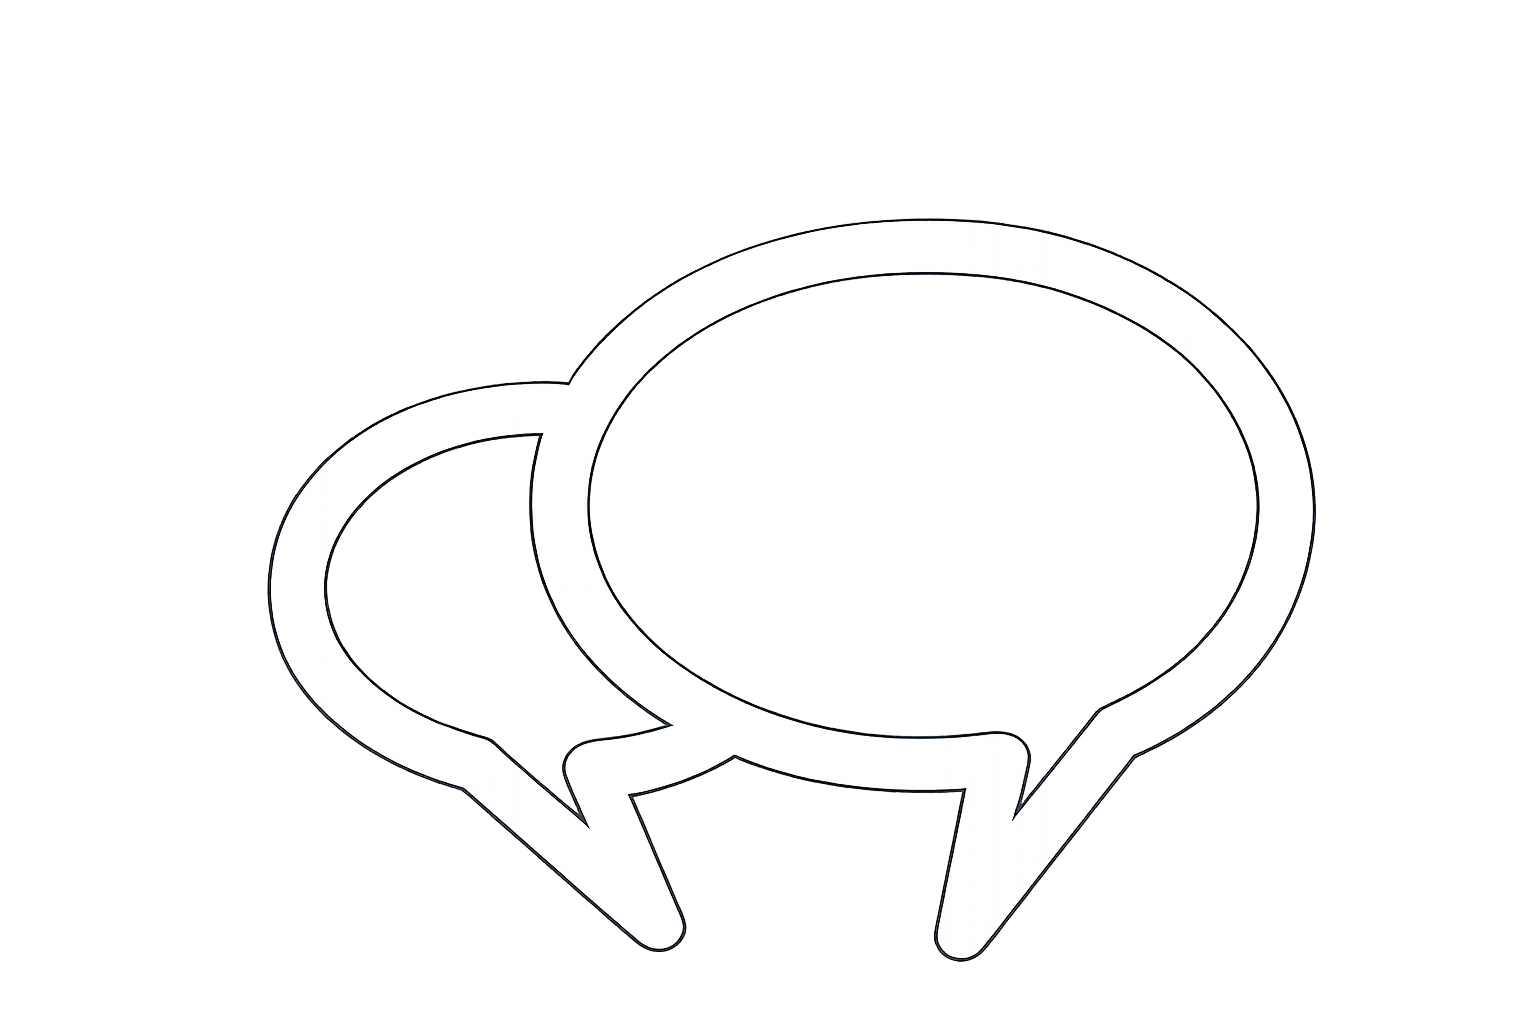
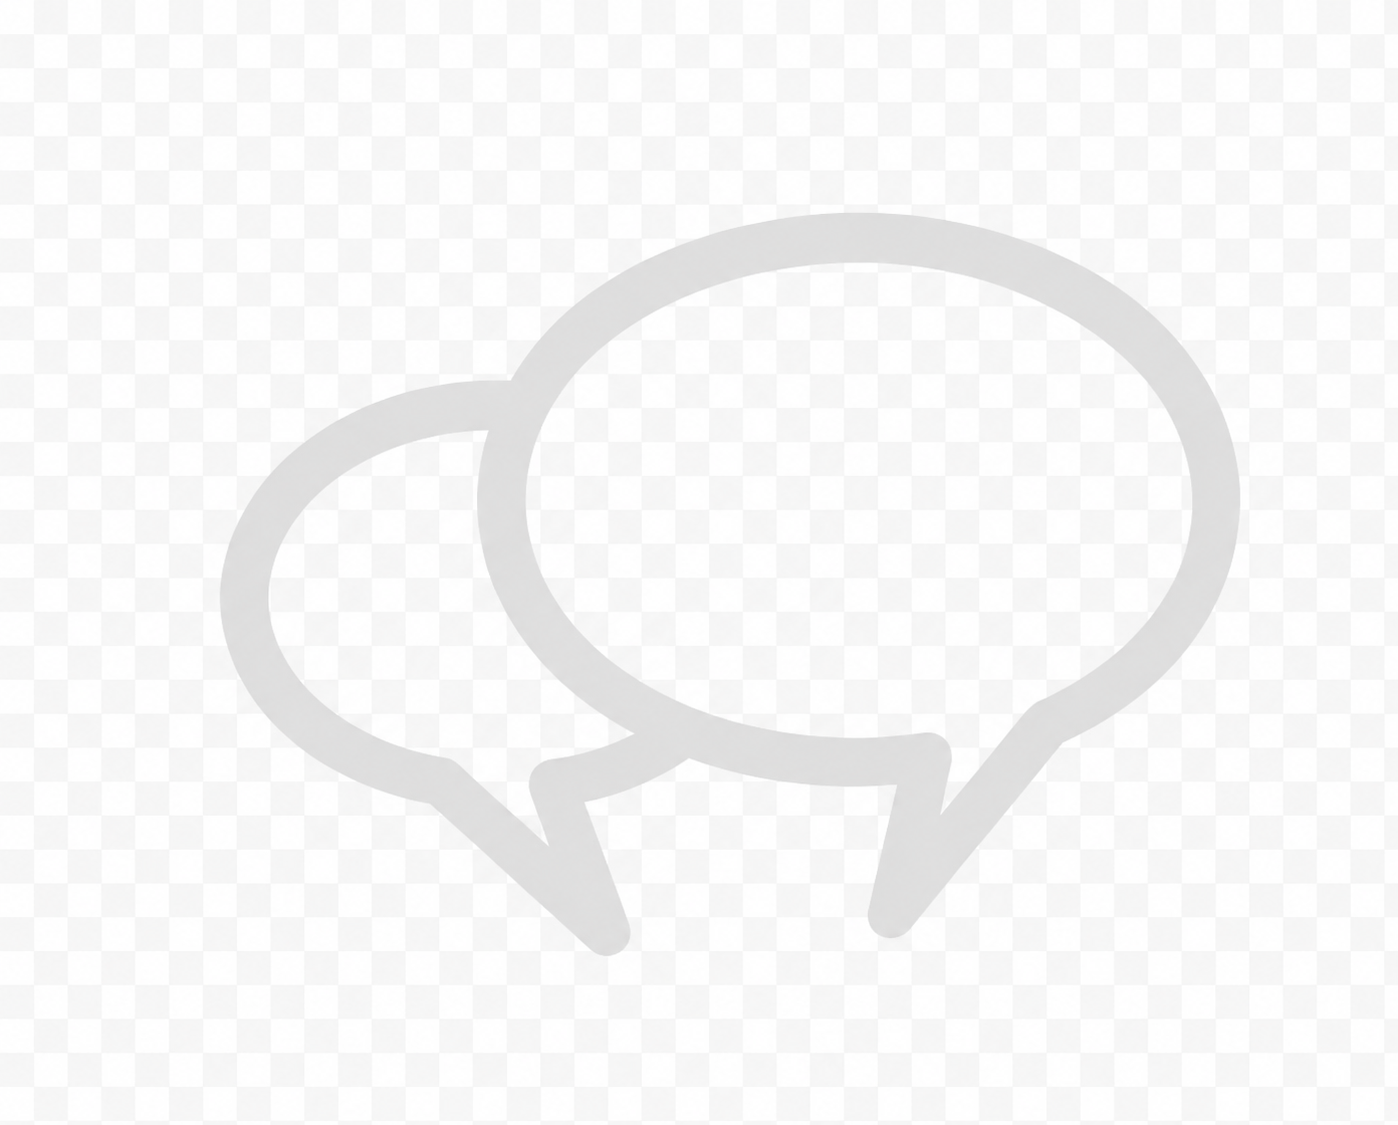
feat: update HeaderSection layout, improve MoodCheckInCard description, and modify HomeScreen introduction

diff --git a/public/sw.js b/public/sw.js
@@ -1,1 +1,100 @@
-if(!self.define){let e,a={};const i=(i,s)=>(i=new URL(i+".js",s).href,a[i]||new Promise(a=>{if("document"in self){const e=document.createElement("script");e.src=i,e.onload=a,document.head.appendChild(e)}else e=i,importScripts(i),a()}).then(()=>{let e=a[i];if(!e)throw new Error(`Module ${i} didn’t register its module`);return e}));self.define=(s,o)=>{const r=e||("document"in self?document.currentScript.src:"")||location.href;if(a[r])return;let c={};const t=e=>i(e,r),n={module:{uri:r},exports:c,require:t};a[r]=Promise.all(s.map(e=>n[e]||t(e))).then(e=>(o(...e),c))}}define(["./workbox-0710f85d"],function(e){"use strict";importScripts("worker-CYCxR1mOuer4GJf7MIJsa.js"),self.skipWaiting(),e.clientsClaim(),e.precacheAndRoute([{url:"/Logo Source files 21-4/Font/AdobeFnt22.lst",revision:"f0a9a0a2ea14876da89ce930f561c557"},{url:"/Logo Source files 21-4/Font/segoeui.ttf",revision:"d9076ed73f2501090da92fe3c72d3ce6"},{url:"/Logo Source files 21-4/Font/segoeuib.ttf",revision:"299556cecd6b730bce8230f529e837a1"},{url:"/Logo Source files 21-4/Font/segoeuii.ttf",revision:"ac2711bc5bf8d5883fc4091ac738a19a"},{url:"/Logo Source files 21-4/Font/segoeuil.ttf",revision:"d44929d62a49114d494d1768893fcdf7"},{url:"/Logo Source files 21-4/Font/segoeuisl.ttf",revision:"426088e434f43481b24859270171b906"},{url:"/Logo Source files 21-4/Font/segoeuiz.ttf",revision:"cb53f8068af6572a9ad4cc3c9a226704"},{url:"/Logo Source files 21-4/Font/seguibl.ttf",revision:"868d9468768f1660600f840e3b864815"},{url:"/Logo Source files 21-4/Font/seguibli.ttf",revision:"38b35433147fc7e2b286919b5cb8854e"},{url:"/Logo Source files 21-4/Font/seguili.ttf",revision:"5989bb884027d397cf27a15c18c26b95"},{url:"/Logo Source files 21-4/Font/seguisb.ttf",revision:"bc74928e0b7d13379ccf0b39354e87ad"},{url:"/Logo Source files 21-4/Font/seguisbi.ttf",revision:"3f0b609427347ed7f9d60c8c2f0b2e14"},{url:"/Logo Source files 21-4/Font/seguisli.ttf",revision:"3b10d164be87745d556fddfb792096cd"},{url:"/Logo Source files 21-4/Icon/0.25x/Artboard-1.jpg",revision:"acd2f9a4e590029bcc2b14525d190b1b"},{url:"/Logo Source files 21-4/Icon/0.25x/Artboard-1.png",revision:"125c571dca6747228a110a28f7a92eb7"},{url:"/Logo Source files 21-4/Icon/0.5x/Artboard-1.jpg",revision:"906a511ccec3d4e40ec1843180a19cf8"},{url:"/Logo Source files 21-4/Icon/0.5x/Artboard1.png",revision:"cd5b1b362d56faa2e765ba724dbf250d"},{url:"/Logo Source files 21-4/Icon/1x/[phone redacted].jpg",revision:"6b0da55e05501a06e7ee3d527e8cb718"},{url:"/Logo Source files 21-4/Icon/1x/Artboard 1-100.jpg",revision:"078a97d5152b5fd19f94fe49468ccedb"},{url:"/Logo Source files 21-4/Icon/1x/Artboard 1.png",revision:"ae27d35c9a984d4b47920e9b98237489"},{url:"/Logo Source files 21-4/Icon/1x/SAI116.jpg",revision:"71c82c9d0eea1b27597a5bd08ae265b2"},{url:"/Logo Source files 21-4/Icon/2x/Artboard [email redacted]",revision:"2b4030aefeceab4f7a455d5b19f5aca2"},{url:"/Logo Source files 21-4/Icon/2x/Artboard [email redacted]",revision:"29391640c67640cfaa227e386fce8da7"},{url:"/Logo Source files 21-4/Icon/4x/Artboard [email redacted]",revision:"ccd36be4868c17f5991342d52f6b5a20"},{url:"/Logo Source files 21-4/Icon/4x/Artboard [email redacted]",revision:"1a12ea754f22bd2ec5b96027a0d856e8"},{url:"/Logo Source files 21-4/Icon/PDF/Artboard 1.pdf",revision:"4c3bdfdae489c1ae967c696d6878318a"},{url:"/Logo Source files 21-4/Icon/SVG/Artboard1.svg",revision:"47bd213baccc6bbe7e6c641a06f987fb"},{url:"/Logo Source files 21-4/Logo.ai",revision:"b8c7a00791806ed5c2c210ac9b9c14d4"},{url:"/Logo Source files 21-4/Logo.psd",revision:"00c651961e1d476e7493416e9ef0e04b"},{url:"/Logo Source files 21-4/Logo/0.25x/Artboard-1.png",revision:"125c571dca6747228a110a28f7a92eb7"},{url:"/Logo Source files 21-4/Logo/0.25x/Artboard-2-100.jpg",revision:"33d9a1a340bfd3565c01b0071068e9ae"},{url:"/Logo Source files 21-4/Logo/0.25x/Artboard-2.png",revision:"fcfa8528f6153c1ed359f8a6479f1b18"},{url:"/Logo Source files 21-4/Logo/0.25x/Artboard-3.png",revision:"596fdf218f5adbf59bbb1c39f790b847"},{url:"/Logo Source files 21-4/Logo/0.25x/Artboard-3_transparent.png",revision:"e5313c700c4301763bd1a1a325256db7"},{url:"/Logo Source files 21-4/Logo/0.5x/Artboard 1.png",revision:"cd5b1b362d56faa2e765ba724dbf250d"},{url:"/Logo Source files 21-4/Logo/0.5x/Artboard 2.png",revision:"8137db56de12104fce8472c0f1d17d53"},{url:"/Logo Source files 21-4/Logo/0.5x/Artboard 3.png",revision:"893b96de5654ae2f93f84f0bd558180c"},{url:"/Logo Source files 21-4/Logo/0.5x/Artboard-2.jpg",revision:"782787e9772260446304de6700b0fd21"},{url:"/Logo Source files 21-4/Logo/0.5x/Artboard3_transparent.png",revision:"a73f7572fcdc3bb5809184ecb3c421b1"},{url:"/Logo Source files 21-4/Logo/1x/Artboard 2-100.jpg",revision:"1f3b209a683d49d21a6b8bce70d85c9a"},{url:"/Logo Source files 21-4/Logo/1x/Artboard 3-100.jpg",revision:"22f33d573edc6d69af72c0dd8f4d4a87"},{url:"/Logo Source files 21-4/Logo/1x/Artboard2.png",revision:"81a8fdde8d97a3c7bace399899764847"},{url:"/Logo Source files 21-4/Logo/1x/Artboard3.png",revision:"d50ca918ab6faf2cb7f67e3c98de81dd"},{url:"/Logo Source files 21-4/Logo/2x/Artboard [email redacted]",revision:"b01a63f840d89d1c614772510dc74acd"},{url:"/Logo Source files 21-4/Logo/2x/Artboard [email redacted]",revision:"1e66c1449244f4e9e347255ba1c3694d"},{url:"/Logo Source files 21-4/Logo/2x/Artboard [email redacted]",revision:"7548c7d035706b0b35caa3a5ea49675b"},{url:"/Logo Source files 21-4/Logo/2x/Artboard [email redacted]",revision:"1237edaa02c95ee10801d1f1f16c3e16"},{url:"/Logo Source files 21-4/Logo/4x/Artboard [email redacted]",revision:"e363320e0fa08241264ea67a29627eff"},{url:"/Logo Source files 21-4/Logo/4x/Artboard [email redacted]",revision:"7db6db61d658efe790ba2c11ef21487d"},{url:"/Logo Source files 21-4/Logo/4x/Artboard [email redacted]",revision:"873475ec82f27c4b926aa9a8473ea2db"},{url:"/Logo Source files 21-4/Logo/4x/Artboard [email redacted]",revision:"aa5d2f894cf0e5f95ca7767435190a95"},{url:"/Logo Source files 21-4/Logo/PDF/Artboard 2.pdf",revision:"c0996dc216fa441f0e6896d3881dea50"},{url:"/Logo Source files 21-4/Logo/PDF/Artboard 3.pdf",revision:"6e165163dfc564526f84b426f2205bb5"},{url:"/Logo Source files 21-4/Logo/SVG/Artboard2.svg",revision:"7d742378e0be3f9e8389f319b66976d6"},{url:"/Logo Source files 21-4/Logo/SVG/Artboard3.svg",revision:"a686296e9131efa666cd7d9b277aca95"},{url:"/_next/static/CYCxR1mOuer4GJf7MIJsa/_buildManifest.js",revision:"ce2385129642ca7e648e3472f44cfc25"},{url:"/_next/static/CYCxR1mOuer4GJf7MIJsa/_ssgManifest.js",revision:"b6652df95db52feb4daf4eca35380933"},{url:"/_next/static/chunks/1764.0db36c6698ace430.js",revision:"0db36c6698ace430"},{url:"/_next/static/chunks/3794-0147154ca0a4b9c9.js",revision:"0147154ca0a4b9c9"},{url:"/_next/static/chunks/4bd1b696-c2f6e0877b6c10aa.js",revision:"c2f6e0877b6c10aa"},{url:"/_next/static/chunks/5772-0dd4c8dceaee4227.js",revision:"0dd4c8dceaee4227"},{url:"/_next/static/chunks/6444-163c2862d7038b3f.js",revision:"163c2862d7038b3f"},{url:"/_next/static/chunks/7492-0a93ca95383933c1.js",revision:"0a93ca95383933c1"},{url:"/_next/static/chunks/7543-36110470be9354ce.js",revision:"36110470be9354ce"},{url:"/_next/static/chunks/8746-67b5f20492db7198.js",revision:"67b5f20492db7198"},{url:"/_next/static/chunks/app/_global-error/page-8a613b8f125b011e.js",revision:"8a613b8f125b011e"},{url:"/_next/static/chunks/app/_not-found/page-596f49dcadd707aa.js",revision:"596f49dcadd707aa"},{url:"/_next/static/chunks/app/api/auth/forget-password/route-8a613b8f125b011e.js",revision:"8a613b8f125b011e"},{url:"/_next/static/chunks/app/api/auth/login/passkey/route-8a613b8f125b011e.js",revision:"8a613b8f125b011e"},{url:"/_next/static/chunks/app/api/auth/login/route-8a613b8f125b011e.js",revision:"8a613b8f125b011e"},{url:"/_next/static/chunks/app/api/auth/logout/route-8a613b8f125b011e.js",revision:"8a613b8f125b011e"},{url:"/_next/static/chunks/app/api/auth/me/route-8a613b8f125b011e.js",revision:"8a613b8f125b011e"},{url:"/_next/static/chunks/app/api/auth/register/route-8a613b8f125b011e.js",revision:"8a613b8f125b011e"},{url:"/_next/static/chunks/app/api/auth/resend/route-8a613b8f125b011e.js",revision:"8a613b8f125b011e"},{url:"/_next/static/chunks/app/api/auth/reset-password/route-8a613b8f125b011e.js",revision:"8a613b8f125b011e"},{url:"/_next/static/chunks/app/api/auth/verify-mobile/route-8a613b8f125b011e.js",revision:"8a613b8f125b011e"},{url:"/_next/static/chunks/app/api/chat/%5Bid%5D/route-8a613b8f125b011e.js",revision:"8a613b8f125b011e"},{url:"/_next/static/chunks/app/api/chat/route-8a613b8f125b011e.js",revision:"8a613b8f125b011e"},{url:"/_next/static/chunks/app/api/chat/stream/route-8a613b8f125b011e.js",revision:"8a613b8f125b011e"},{url:"/_next/static/chunks/app/api/credit/balance/route-8a613b8f125b011e.js",revision:"8a613b8f125b011e"},{url:"/_next/static/chunks/app/api/message/route-8a613b8f125b011e.js",revision:"8a613b8f125b011e"},{url:"/_next/static/chunks/app/api/mood-checkin/reminder/route-8a613b8f125b011e.js",revision:"8a613b8f125b011e"},{url:"/_next/static/chunks/app/api/mood-checkin/route-8a613b8f125b011e.js",revision:"8a613b8f125b011e"},{url:"/_next/static/chunks/app/api/notifications/%5Bid%5D/route-8a613b8f125b011e.js",revision:"8a613b8f125b011e"},{url:"/_next/static/chunks/app/api/notifications/route-8a613b8f125b011e.js",revision:"8a613b8f125b011e"},{url:"/_next/static/chunks/app/api/notify/route-8a613b8f125b011e.js",revision:"8a613b8f125b011e"},{url:"/_next/static/chunks/app/api/settings/subscription/route-8a613b8f125b011e.js",revision:"8a613b8f125b011e"},{url:"/_next/static/chunks/app/api/settings/subscription/status/route-8a613b8f125b011e.js",revision:"8a613b8f125b011e"},{url:"/_next/static/chunks/app/api/subscribe/route-8a613b8f125b011e.js",revision:"8a613b8f125b011e"},{url:"/_next/static/chunks/app/api/subscribe/webhook/route-8a613b8f125b011e.js",revision:"8a613b8f125b011e"},{url:"/_next/static/chunks/app/api/user/profile/basic/route-8a613b8f125b011e.js",revision:"8a613b8f125b011e"},{url:"/_next/static/chunks/app/api/user/profile/interests/route-8a613b8f125b011e.js",revision:"8a613b8f125b011e"},{url:"/_next/static/chunks/app/api/user/profile/language/route-8a613b8f125b011e.js",revision:"8a613b8f125b011e"},{url:"/_next/static/chunks/app/api/user/profile/route-8a613b8f125b011e.js",revision:"8a613b8f125b011e"},{url:"/_next/static/chunks/app/buy-plan/page-b9b2b123f6b0fd94.js",revision:"b9b2b123f6b0fd94"},{url:"/_next/static/chunks/app/confirm-otp/page-8afd9f917ad125f7.js",revision:"8afd9f917ad125f7"},{url:"/_next/static/chunks/app/create-pin/page-86865a56edccbe45.js",revision:"86865a56edccbe45"},{url:"/_next/static/chunks/app/finger-scan/page-340fd9aceef8d90e.js",revision:"340fd9aceef8d90e"},{url:"/_next/static/chunks/app/forgot-password/page-cac2428da5ea5900.js",revision:"cac2428da5ea5900"},{url:"/_next/static/chunks/app/home/page-bcaafb6f048c0575.js",revision:"bcaafb6f048c0575"},{url:"/_next/static/chunks/app/intrest/page-4489a75e34eb8c19.js",revision:"4489a75e34eb8c19"},{url:"/_next/static/chunks/app/language/page-b584a027dcd0cbc7.js",revision:"b584a027dcd0cbc7"},{url:"/_next/static/chunks/app/layout-3ec4bf16de099822.js",revision:"3ec4bf16de099822"},{url:"/_next/static/chunks/app/lets-you-in/page-33be3e27bf797b10.js",revision:"33be3e27bf797b10"},{url:"/_next/static/chunks/app/new-password/page-acd7f0f376418e95.js",revision:"acd7f0f376418e95"},{url:"/_next/static/chunks/app/notification/page-976fe32b536ada16.js",revision:"976fe32b536ada16"},{url:"/_next/static/chunks/app/notifications/page-65e120a18f4f5391.js",revision:"65e120a18f4f5391"},{url:"/_next/static/chunks/app/page-d085784a8ee2d836.js",revision:"d085784a8ee2d836"},{url:"/_next/static/chunks/app/personal-information/page-b8586b0ae1fdafbc.js",revision:"b8586b0ae1fdafbc"},{url:"/_next/static/chunks/app/plus-subscription/page-c48381c0c0a5506d.js",revision:"c48381c0c0a5506d"},{url:"/_next/static/chunks/app/reasons/page-ea05a59bbc02527f.js",revision:"ea05a59bbc02527f"},{url:"/_next/static/chunks/app/santumai-chat/page-8d98287e213c8815.js",revision:"8d98287e213c8815"},{url:"/_next/static/chunks/app/settings/%5Bslug%5D/page-f35dee24d252f4ae.js",revision:"f35dee24d252f4ae"},{url:"/_next/static/chunks/app/settings/credits/page-7fa16af6076d0510.js",revision:"7fa16af6076d0510"},{url:"/_next/static/chunks/app/settings/history/page-64eaf81064844596.js",revision:"64eaf81064844596"},{url:"/_next/static/chunks/app/sign-in/page-0bb5832df9aaffc3.js",revision:"0bb5832df9aaffc3"},{url:"/_next/static/chunks/app/sign-up/page-58ed0b3dc51da6fe.js",revision:"58ed0b3dc51da6fe"},{url:"/_next/static/chunks/app/verify-otp/page-66c6a2372ec5e2ab.js",revision:"66c6a2372ec5e2ab"},{url:"/_next/static/chunks/framework-d1de002210ddaaef.js",revision:"d1de002210ddaaef"},{url:"/_next/static/chunks/main-app-d98563762ed1a6c5.js",revision:"d98563762ed1a6c5"},{url:"/_next/static/chunks/main-c8d905b903986a2b.js",revision:"c8d905b903986a2b"},{url:"/_next/static/chunks/next/dist/client/components/builtin/app-error-8a613b8f125b011e.js",revision:"8a613b8f125b011e"},{url:"/_next/static/chunks/next/dist/client/components/builtin/forbidden-8a613b8f125b011e.js",revision:"8a613b8f125b011e"},{url:"/_next/static/chunks/next/dist/client/components/builtin/global-error-71378fd1cf2df829.js",revision:"71378fd1cf2df829"},{url:"/_next/static/chunks/next/dist/client/components/builtin/not-found-8a613b8f125b011e.js",revision:"8a613b8f125b011e"},{url:"/_next/static/chunks/next/dist/client/components/builtin/unauthorized-8a613b8f125b011e.js",revision:"8a613b8f125b011e"},{url:"/_next/static/chunks/polyfills-42372ed130431b0a.js",revision:"846118c33b2c0e922d7b3a7676f81f6f"},{url:"/_next/static/chunks/webpack-0e35fb87b2251016.js",revision:"0e35fb87b2251016"},{url:"/_next/static/css/1069acb9462ef39b.css",revision:"1069acb9462ef39b"},{url:"/_next/static/media/0a99c8ce3c679917-s.p.ttf",revision:"868d9468768f1660600f840e3b864815"},{url:"/_next/static/media/10e8e240eba8429b-s.p.ttf",revision:"d44929d62a49114d494d1768893fcdf7"},{url:"/_next/static/media/4fc1183f8285b006-s.p.ttf",revision:"ac2711bc5bf8d5883fc4091ac738a19a"},{url:"/_next/static/media/549872d193c16296-s.p.ttf",revision:"3f0b609427347ed7f9d60c8c2f0b2e14"},{url:"/_next/static/media/5f2e5813932f35b1-s.p.ttf",revision:"299556cecd6b730bce8230f529e837a1"},{url:"/_next/static/media/5f793b7ed9f6f352-s.p.ttf",revision:"d9076ed73f2501090da92fe3c72d3ce6"},{url:"/_next/static/media/64f45df8a5585abb-s.p.ttf",revision:"38b35433147fc7e2b286919b5cb8854e"},{url:"/_next/static/media/b2ecff75c1c4f851-s.p.ttf",revision:"426088e434f43481b24859270171b906"},{url:"/_next/static/media/b8729516ec45e577-s.p.ttf",revision:"3b10d164be87745d556fddfb792096cd"},{url:"/_next/static/media/c70a4807eaf8d60d-s.p.ttf",revision:"5989bb884027d397cf27a15c18c26b95"},{url:"/_next/static/media/d5994bfc292094e7-s.p.ttf",revision:"bc74928e0b7d13379ccf0b39354e87ad"},{url:"/_next/static/media/ed138dce082b5898-s.p.ttf",revision:"cb53f8068af6572a9ad4cc3c9a226704"},{url:"/icons/Artboard [email redacted]",revision:"2b4030aefeceab4f7a455d5b19f5aca2"},{url:"/icons/Artboard [email redacted]",revision:"1e66c1449244f4e9e347255ba1c3694d"},{url:"/icons/Artboard [email redacted]",revision:"7548c7d035706b0b35caa3a5ea49675b"},{url:"/icons/Image.png",revision:"ae2b0bd1b40ab163deedeba9de27e545"},{url:"/icons/artboard-2.jpg",revision:"b01a63f840d89d1c614772510dc74acd"},{url:"/icons/artboard-3.png",revision:"1237edaa02c95ee10801d1f1f16c3e16"},{url:"/icons/dots_pattern.png",revision:"718c8ea380b204a9a5c427e0d80dce03"},{url:"/icons/dots_pattern_bottom.png",revision:"6b00da0bcfb046423036abeac785d8a9"},{url:"/icons/favicon.png",revision:"787e62d1f74fb301968e1ed4e4b9cbf4"},{url:"/icons/finger-print-img-black.png",revision:"ebe60351e4e502417cf1e64d04ca8c83"},{url:"/icons/finger-print-img-green.png",revision:"9f9cf168aa3e289c28c8e4c28212d91b"},{url:"/icons/finger-print-img-white.png",revision:"79663949bc04a789b1a15c268ac1d807"},{url:"/icons/friend10.jpg",revision:"98dbd2a4518fd52480998d0132f30854"},{url:"/icons/let-you-screen-main-img-dark.jpg",revision:"c5aa694e691139e76203f00add725201"},{url:"/icons/let-you-screen-main-img.jpg",revision:"b45899b1be7fd671db77f441d14569a1"},{url:"/icons/logo.png",revision:"0923652e9bc66d3fdc715ce23c4fc015"},{url:"/icons/plus-robort.png",revision:"a1e8ecc542e528e3d8f22d67bbf8aa7a"},{url:"/icons/robot-slider-img2.png",revision:"ae2b0bd1b40ab163deedeba9de27e545"},{url:"/icons/robot-slider-img3.png",revision:"ae2b0bd1b40ab163deedeba9de27e545"},{url:"/message.png",revision:"486f31fc880a8fa15e60a38545f22152"},{url:"/web-app-manifest-192x192.png",revision:"bff6cd0cc24bf32994d84d833666299d"},{url:"/web-app-manifest-512x512.png",revision:"e2a71fd7cbc2ab2a52413384a38a8f3a"}],{ignoreURLParametersMatching:[]}),e.cleanupOutdatedCaches(),e.registerRoute("/",new e.NetworkFirst({cacheName:"start-url",plugins:[{cacheWillUpdate:async({request:e,response:a,event:i,state:s})=>a&&"opaqueredirect"===a.type?new Response(a.body,{status:200,statusText:"OK",headers:a.headers}):a}]}),"GET"),e.registerRoute(/^https?.*/,new e.NetworkFirst({cacheName:"offlineCache",plugins:[new e.ExpirationPlugin({maxEntries:200,maxAgeSeconds:86400}),new e.CacheableResponsePlugin({statuses:[0,200]})]}),"GET"),e.registerRoute(/\.(?:js|css|woff2?|ico|png|jpg|jpeg|svg|webp)$/,new e.StaleWhileRevalidate({cacheName:"staticAssetsCache",plugins:[new e.ExpirationPlugin({maxEntries:100,maxAgeSeconds:2592e3}),new e.CacheableResponsePlugin({statuses:[0,200]})]}),"GET"),e.registerRoute(/^https:\/\/jsonplaceholder\.typicode\.com/,new e.NetworkFirst({cacheName:"apiCache",plugins:[new e.ExpirationPlugin({maxEntries:100,maxAgeSeconds:3600}),new e.CacheableResponsePlugin({statuses:[0,200]})]}),"GET")});
+/**
+ * Copyright 2018 Google Inc. All Rights Reserved.
+ * Licensed under the Apache License, Version 2.0 (the "License");
+ * you may not use this file except in compliance with the License.
+ * You may obtain a copy of the License at
+ *     http://www.apache.org/licenses/LICENSE-2.0
+ * Unless required by applicable law or agreed to in writing, software
+ * distributed under the License is distributed on an "AS IS" BASIS,
+ * WITHOUT WARRANTIES OR CONDITIONS OF ANY KIND, either express or implied.
+ * See the License for the specific language governing permissions and
+ * limitations under the License.
+ */
+
+// If the loader is already loaded, just stop.
+if (!self.define) {
+  let registry = {};
+
+  // Used for `eval` and `importScripts` where we can't get script URL by other means.
+  // In both cases, it's safe to use a global var because those functions are synchronous.
+  let nextDefineUri;
+
+  const singleRequire = (uri, parentUri) => {
+    uri = new URL(uri + ".js", parentUri).href;
+    return registry[uri] || (
+      
+        new Promise(resolve => {
+          if ("document" in self) {
+            const script = document.createElement("script");
+            script.src = uri;
+            script.onload = resolve;
+            document.head.appendChild(script);
+          } else {
+            nextDefineUri = uri;
+            importScripts(uri);
+            resolve();
+          }
+        })
+      
+      .then(() => {
+        let promise = registry[uri];
+        if (!promise) {
+          throw new Error(`Module ${uri} didn’t register its module`);
+        }
+        return promise;
+      })
+    );
+  };
+
+  self.define = (depsNames, factory) => {
+    const uri = nextDefineUri || ("document" in self ? document.currentScript.src : "") || location.href;
+    if (registry[uri]) {
+      // Module is already loading or loaded.
+      return;
+    }
+    let exports = {};
+    const require = depUri => singleRequire(depUri, uri);
+    const specialDeps = {
+      module: { uri },
+      exports,
+      require
+    };
+    registry[uri] = Promise.all(depsNames.map(
+      depName => specialDeps[depName] || require(depName)
+    )).then(deps => {
+      factory(...deps);
+      return exports;
+    });
+  };
+}
+define(['./workbox-e43f5367'], (function (workbox) { 'use strict';
+
+  importScripts("worker-development.js");
+  self.skipWaiting();
+  workbox.clientsClaim();
+  workbox.registerRoute("/", new workbox.NetworkFirst({
+    "cacheName": "start-url",
+    plugins: [{
+      cacheWillUpdate: async ({
+        request,
+        response,
+        event,
+        state
+      }) => {
+        if (response && response.type === 'opaqueredirect') {
+          return new Response(response.body, {
+            status: 200,
+            statusText: 'OK',
+            headers: response.headers
+          });
+        }
+        return response;
+      }
+    }]
+  }), 'GET');
+  workbox.registerRoute(/.*/i, new workbox.NetworkOnly({
+    "cacheName": "dev",
+    plugins: []
+  }), 'GET');
+
+}));

diff --git a/src/components/UI/HeaderSection.jsx b/src/components/UI/HeaderSection.jsx
@@ -34,19 +34,21 @@ const HeaderSection = ({ title, showImage = true }) => {
           <h1 className="text-[18px] font-medium leading-6 text-[#dedede] sm:text-[20px] lg:text-[24px] lg:leading-8">
             {title}
           </h1>
-          {showImage ? <Image
-            src="/Logo Source files 21-4/Icon/SVG/Artboard1.svg"
-            alt=""
-            width={95}
-            height={95}
-            className=""
-          /> : <Image
-            src="/message.png"
-            alt=""
-            width={80}
-            height={80}
-            className=""
-          />}
+          <div className="flex items-center justify-end w-[95px] h-[63.33px]">
+            {showImage ? <Image
+              src="/Logo Source files 21-4/Icon/SVG/Artboard1.svg"
+              alt=""
+              width={95}
+              height={95}
+              className=""
+            /> : <Image
+              src="/message.png"
+              alt=""
+              width={64}
+              height={64}
+              className=""
+            />}
+          </div>
         </div>
       </div>
     </header>

diff --git a/src/app/home/page.jsx b/src/app/home/page.jsx
@@ -1022,7 +1022,7 @@ export default function HomeScreen() {
               </span>
             </h2>
             <h3 className="mt-3 text-[18px] font-semibold leading-6 text-[#dedede] sm:text-[20px] lg:text-[22px]">
-              I&apos;m Sai, short for Santum AI
+              I&apos;m Sai,
             </h3>
             <p className="mb-3 mt-2 pb-3 font-satoshi text-[16px] font-medium leading-[24px] text-white sm:text-[17px] lg:max-w-[640px] lg:text-[18px] lg:leading-[28px]">
               I&apos;m here to listen and help you make sense of what

diff --git a/src/components/app/MoodCheckInCard.jsx b/src/components/app/MoodCheckInCard.jsx
@@ -51,7 +51,7 @@ export default function MoodCheckInCard({
   className = "",
   title = "How are you feeling?",
   description =
-    "A quick check-in allows Sai respond with more balanced, and stuctured support.",
+    "A quick check-in allows Sai respond with more accurate and relevant support.",
   submitLabel = "Save today's check-in",
   successTitle = "You've checked in today ✅",
   successDescription =